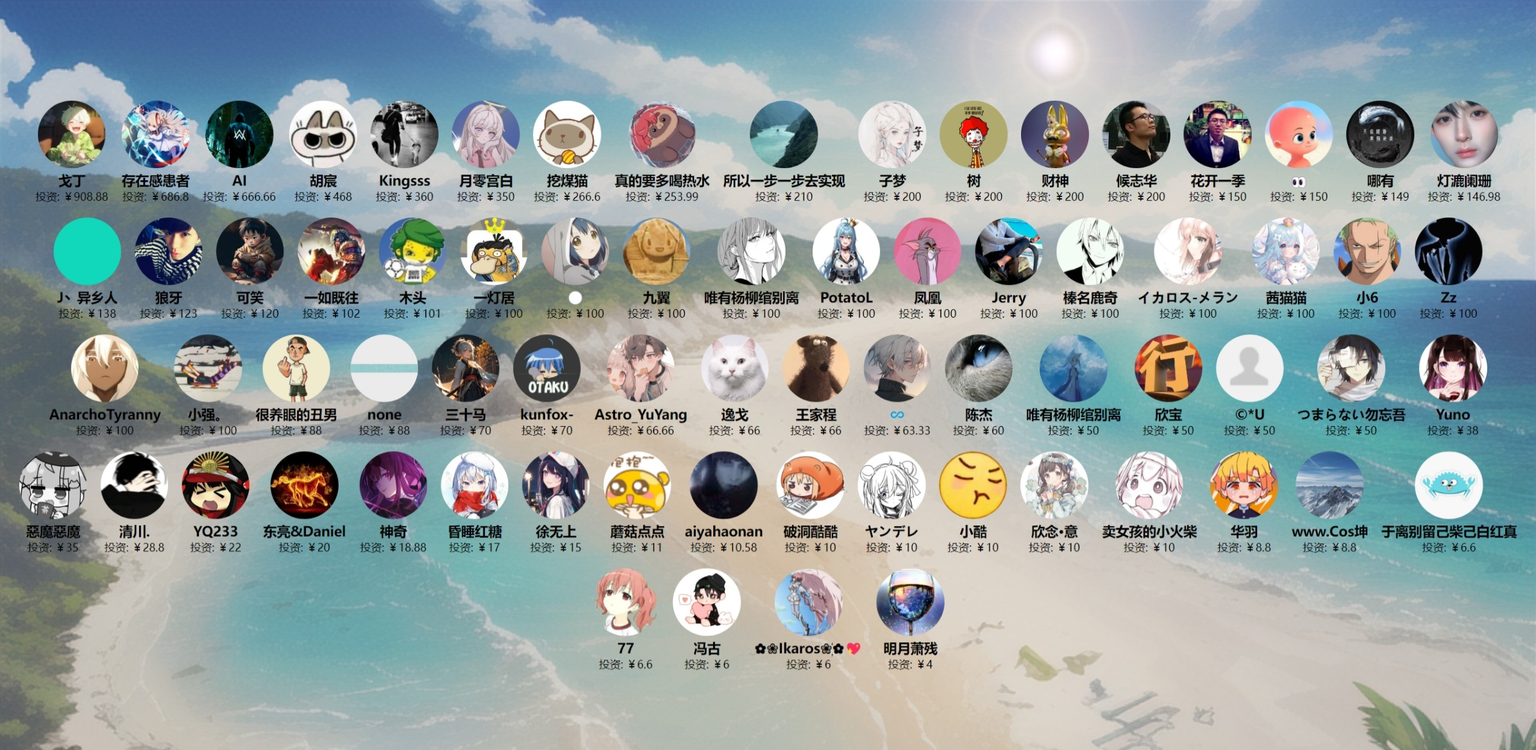
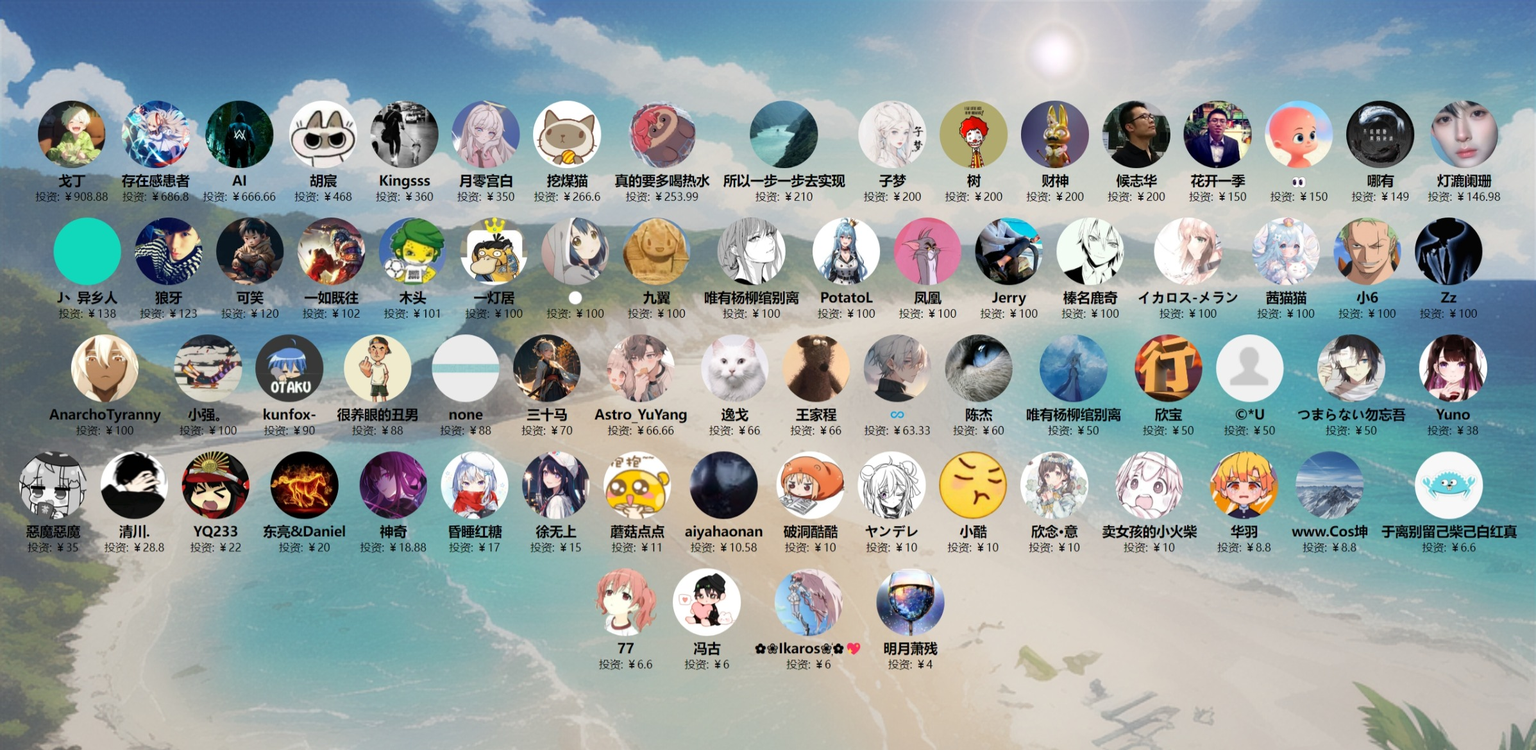
更新投资人

Changed region(s): [[0.1545, 0.4311, 0.4017, 0.5851]]

diff --git a/docs/投资人/index.html b/docs/投资人/index.html
@@ -232,6 +232,11 @@
             amount: "￥100"
         },
         {
+            name: "kunfox-",
+            avatar: "https://images.cnblogs.com/cnblogs_com/ikaros-521/2328032/o_230902161301_otaku.jpg",
+            amount: "￥90"
+        },
+        {
             name: "很养眼的丑男",
             avatar: "https://images.cnblogs.com/cnblogs_com/ikaros-521/2328032/o_230722162732_QQ%E5%9B%BE%E7%89%8720230723000544.jpg",
             amount: "￥88"
@@ -244,11 +249,6 @@
         {
             name: "三十马",
             avatar: "https://images.cnblogs.com/cnblogs_com/ikaros-521/2328032/o_231009135152_QQ%E5%9B%BE%E7%89%8720231009215135.png",
-            amount: "￥70"
-        },
-        {
-            name: "kunfox-",
-            avatar: "https://images.cnblogs.com/cnblogs_com/ikaros-521/2328032/o_230902161301_otaku.jpg",
             amount: "￥70"
         },
         {
